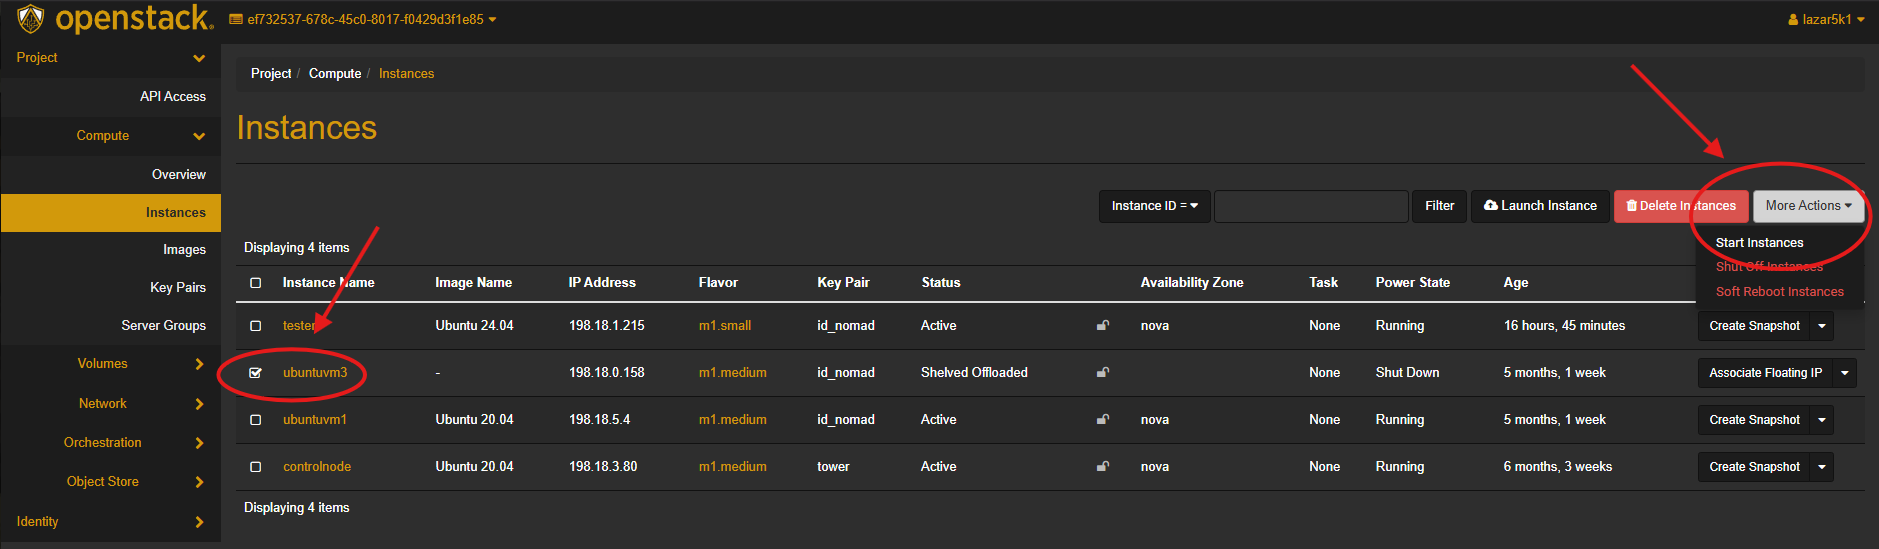
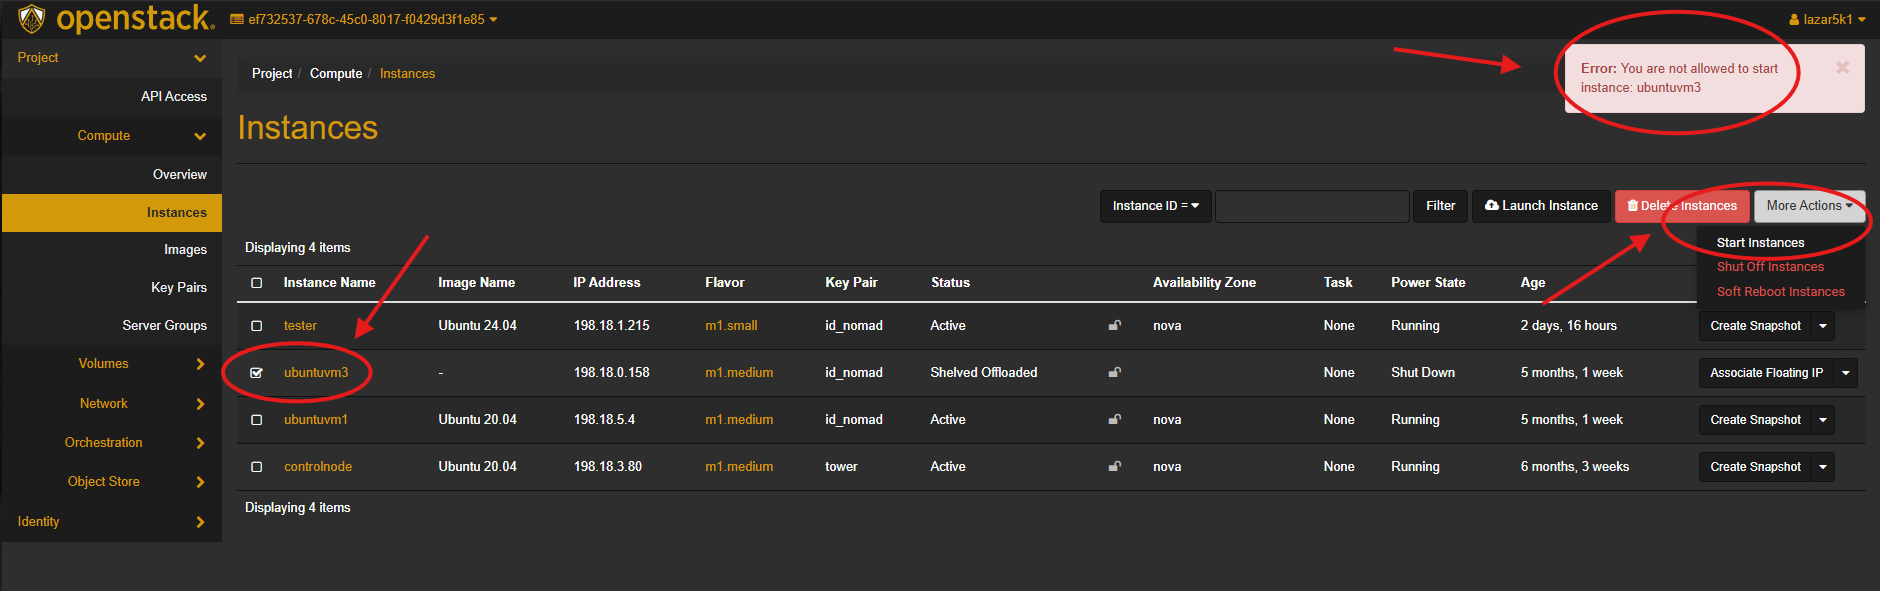
add second part of step1

diff --git a/docs/guides/How to Unshelve an Instance.md b/docs/guides/How to Unshelve an Instance.md
@@ -25,3 +25,8 @@ If the instance is shelved you'll get an error as shown below.
 
 ![step1](../img/Unshelve-instance/unshelving-step1.png)
 
+**SECOND**, to truly confirm your instance is shelved, click the instance name, and look at its status, if it is shelved it will say "**Shelved Offloaded**"
+
+![step1](../img/Unshelve-instance/unshelving-step2.png)
+
+![step1](../img/Unshelve-instance/unshelving-step3.png)
